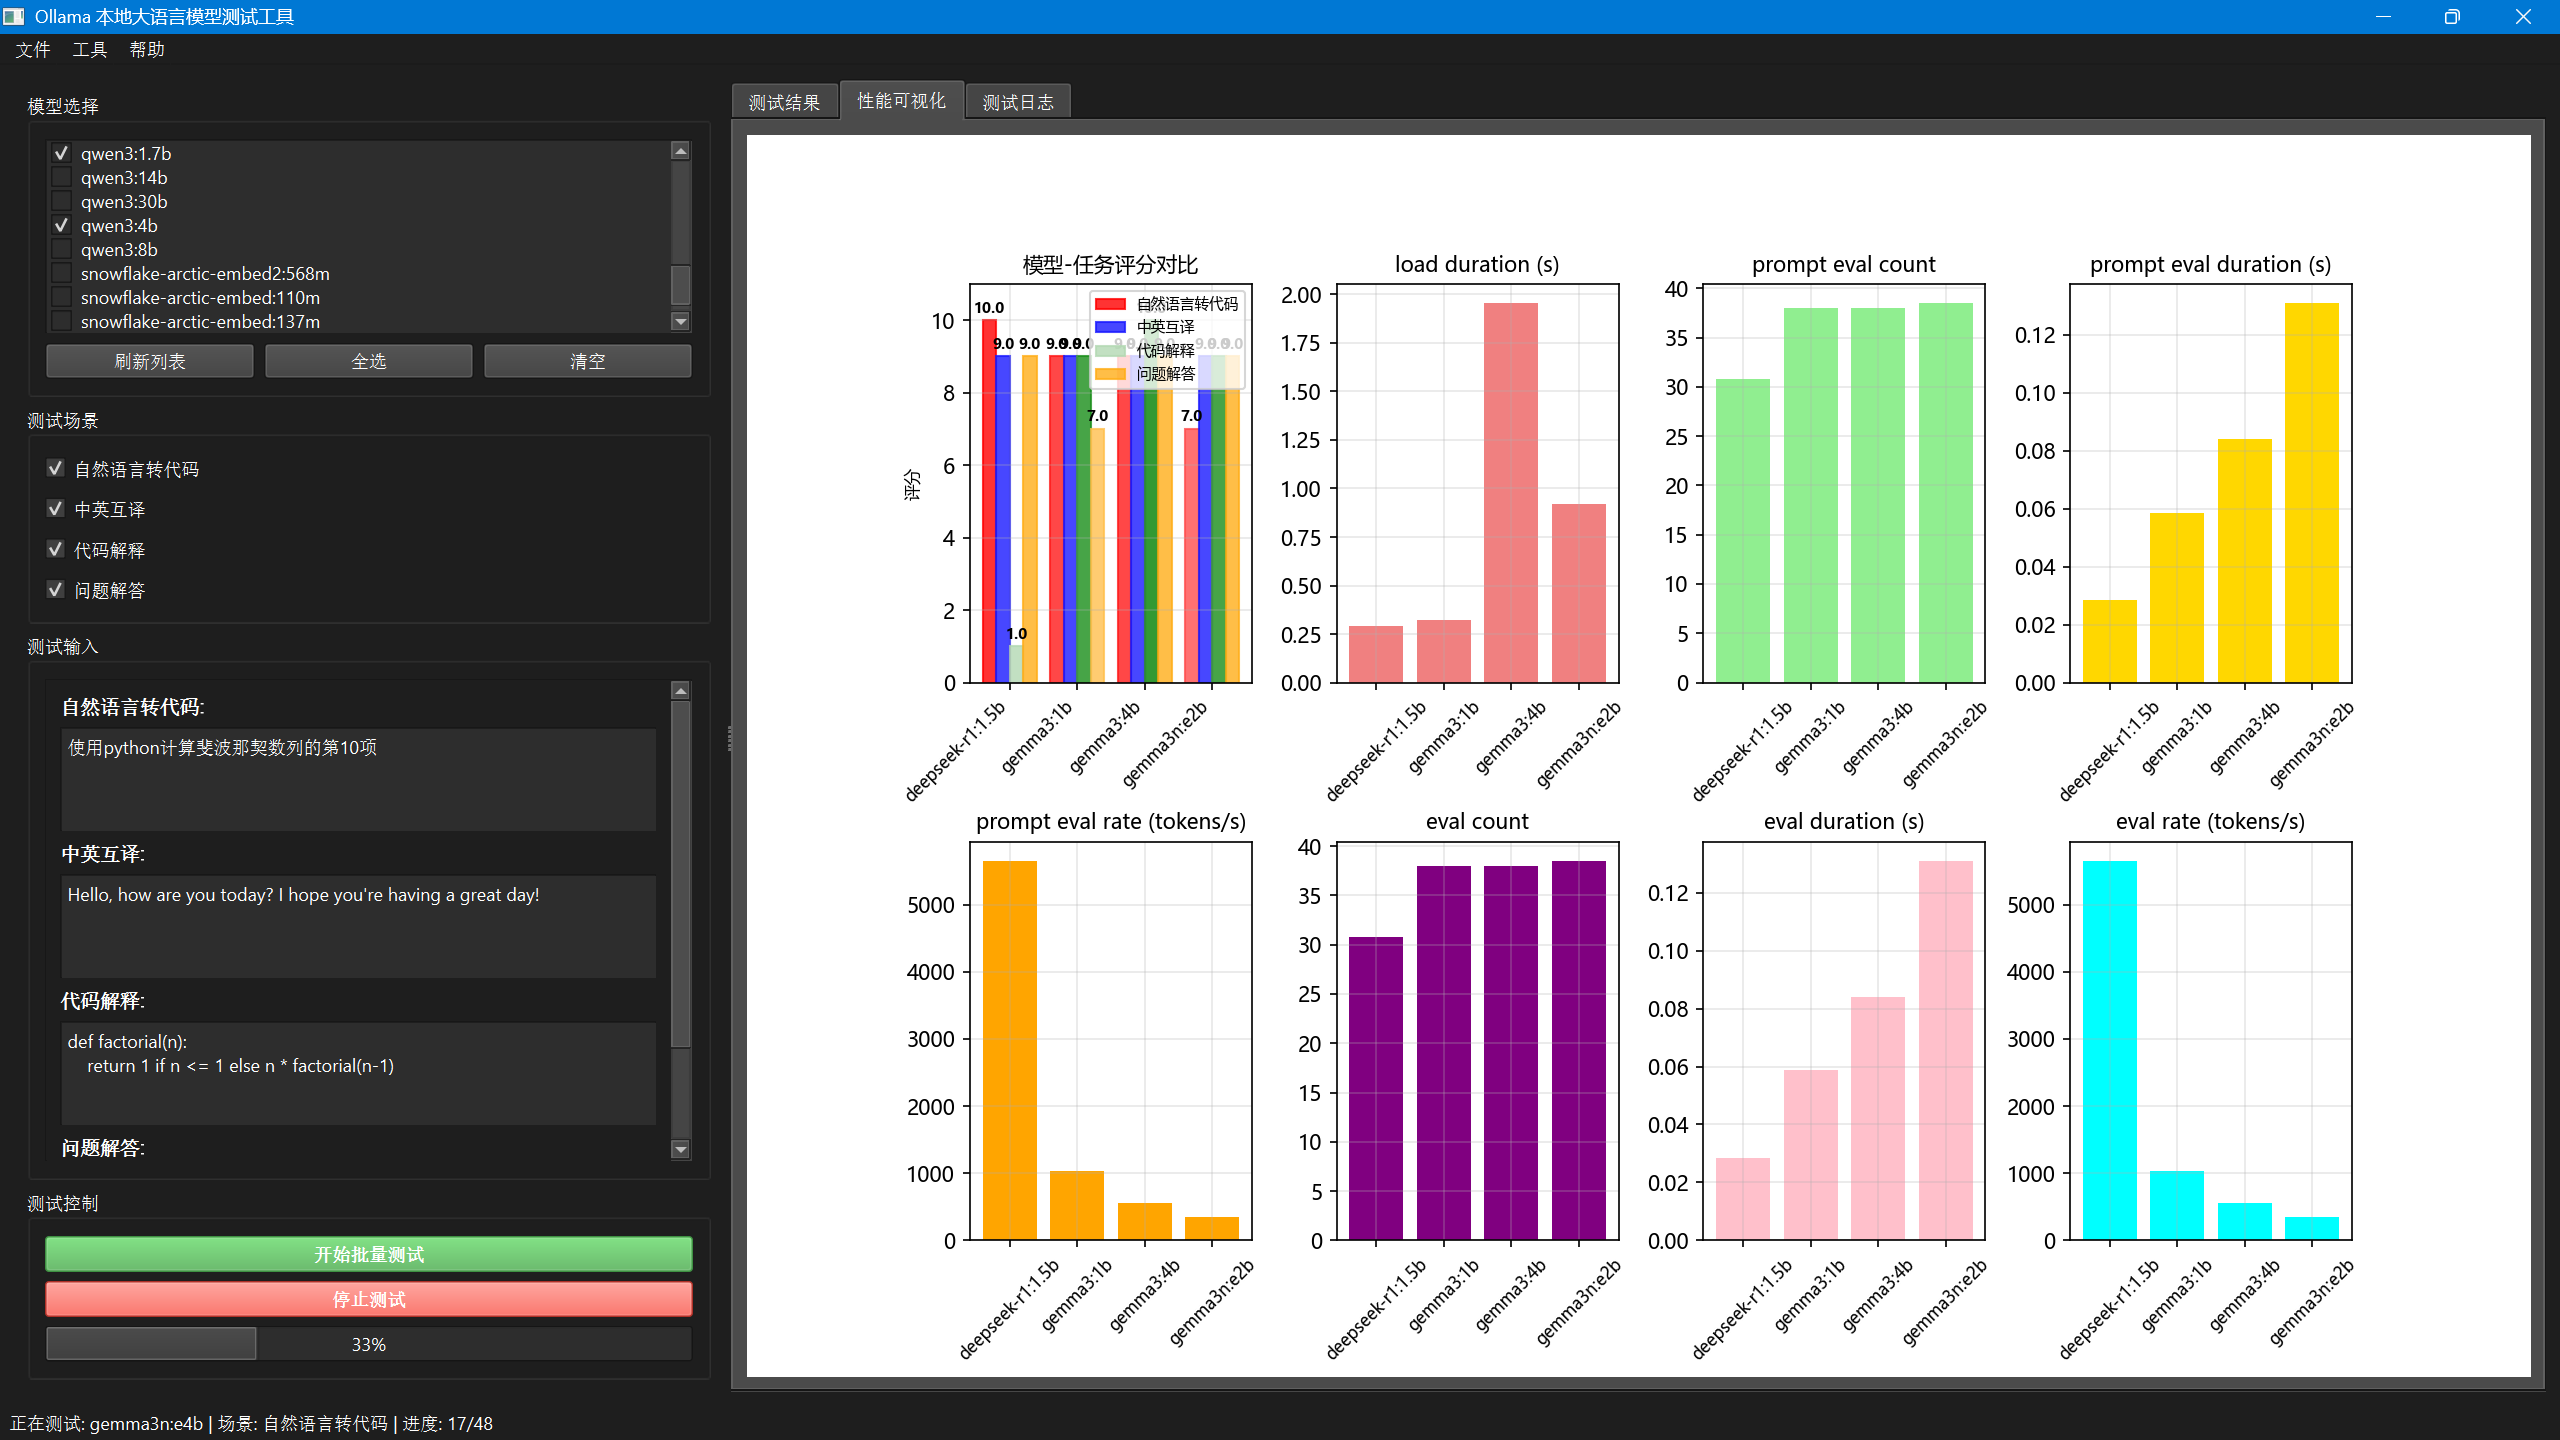
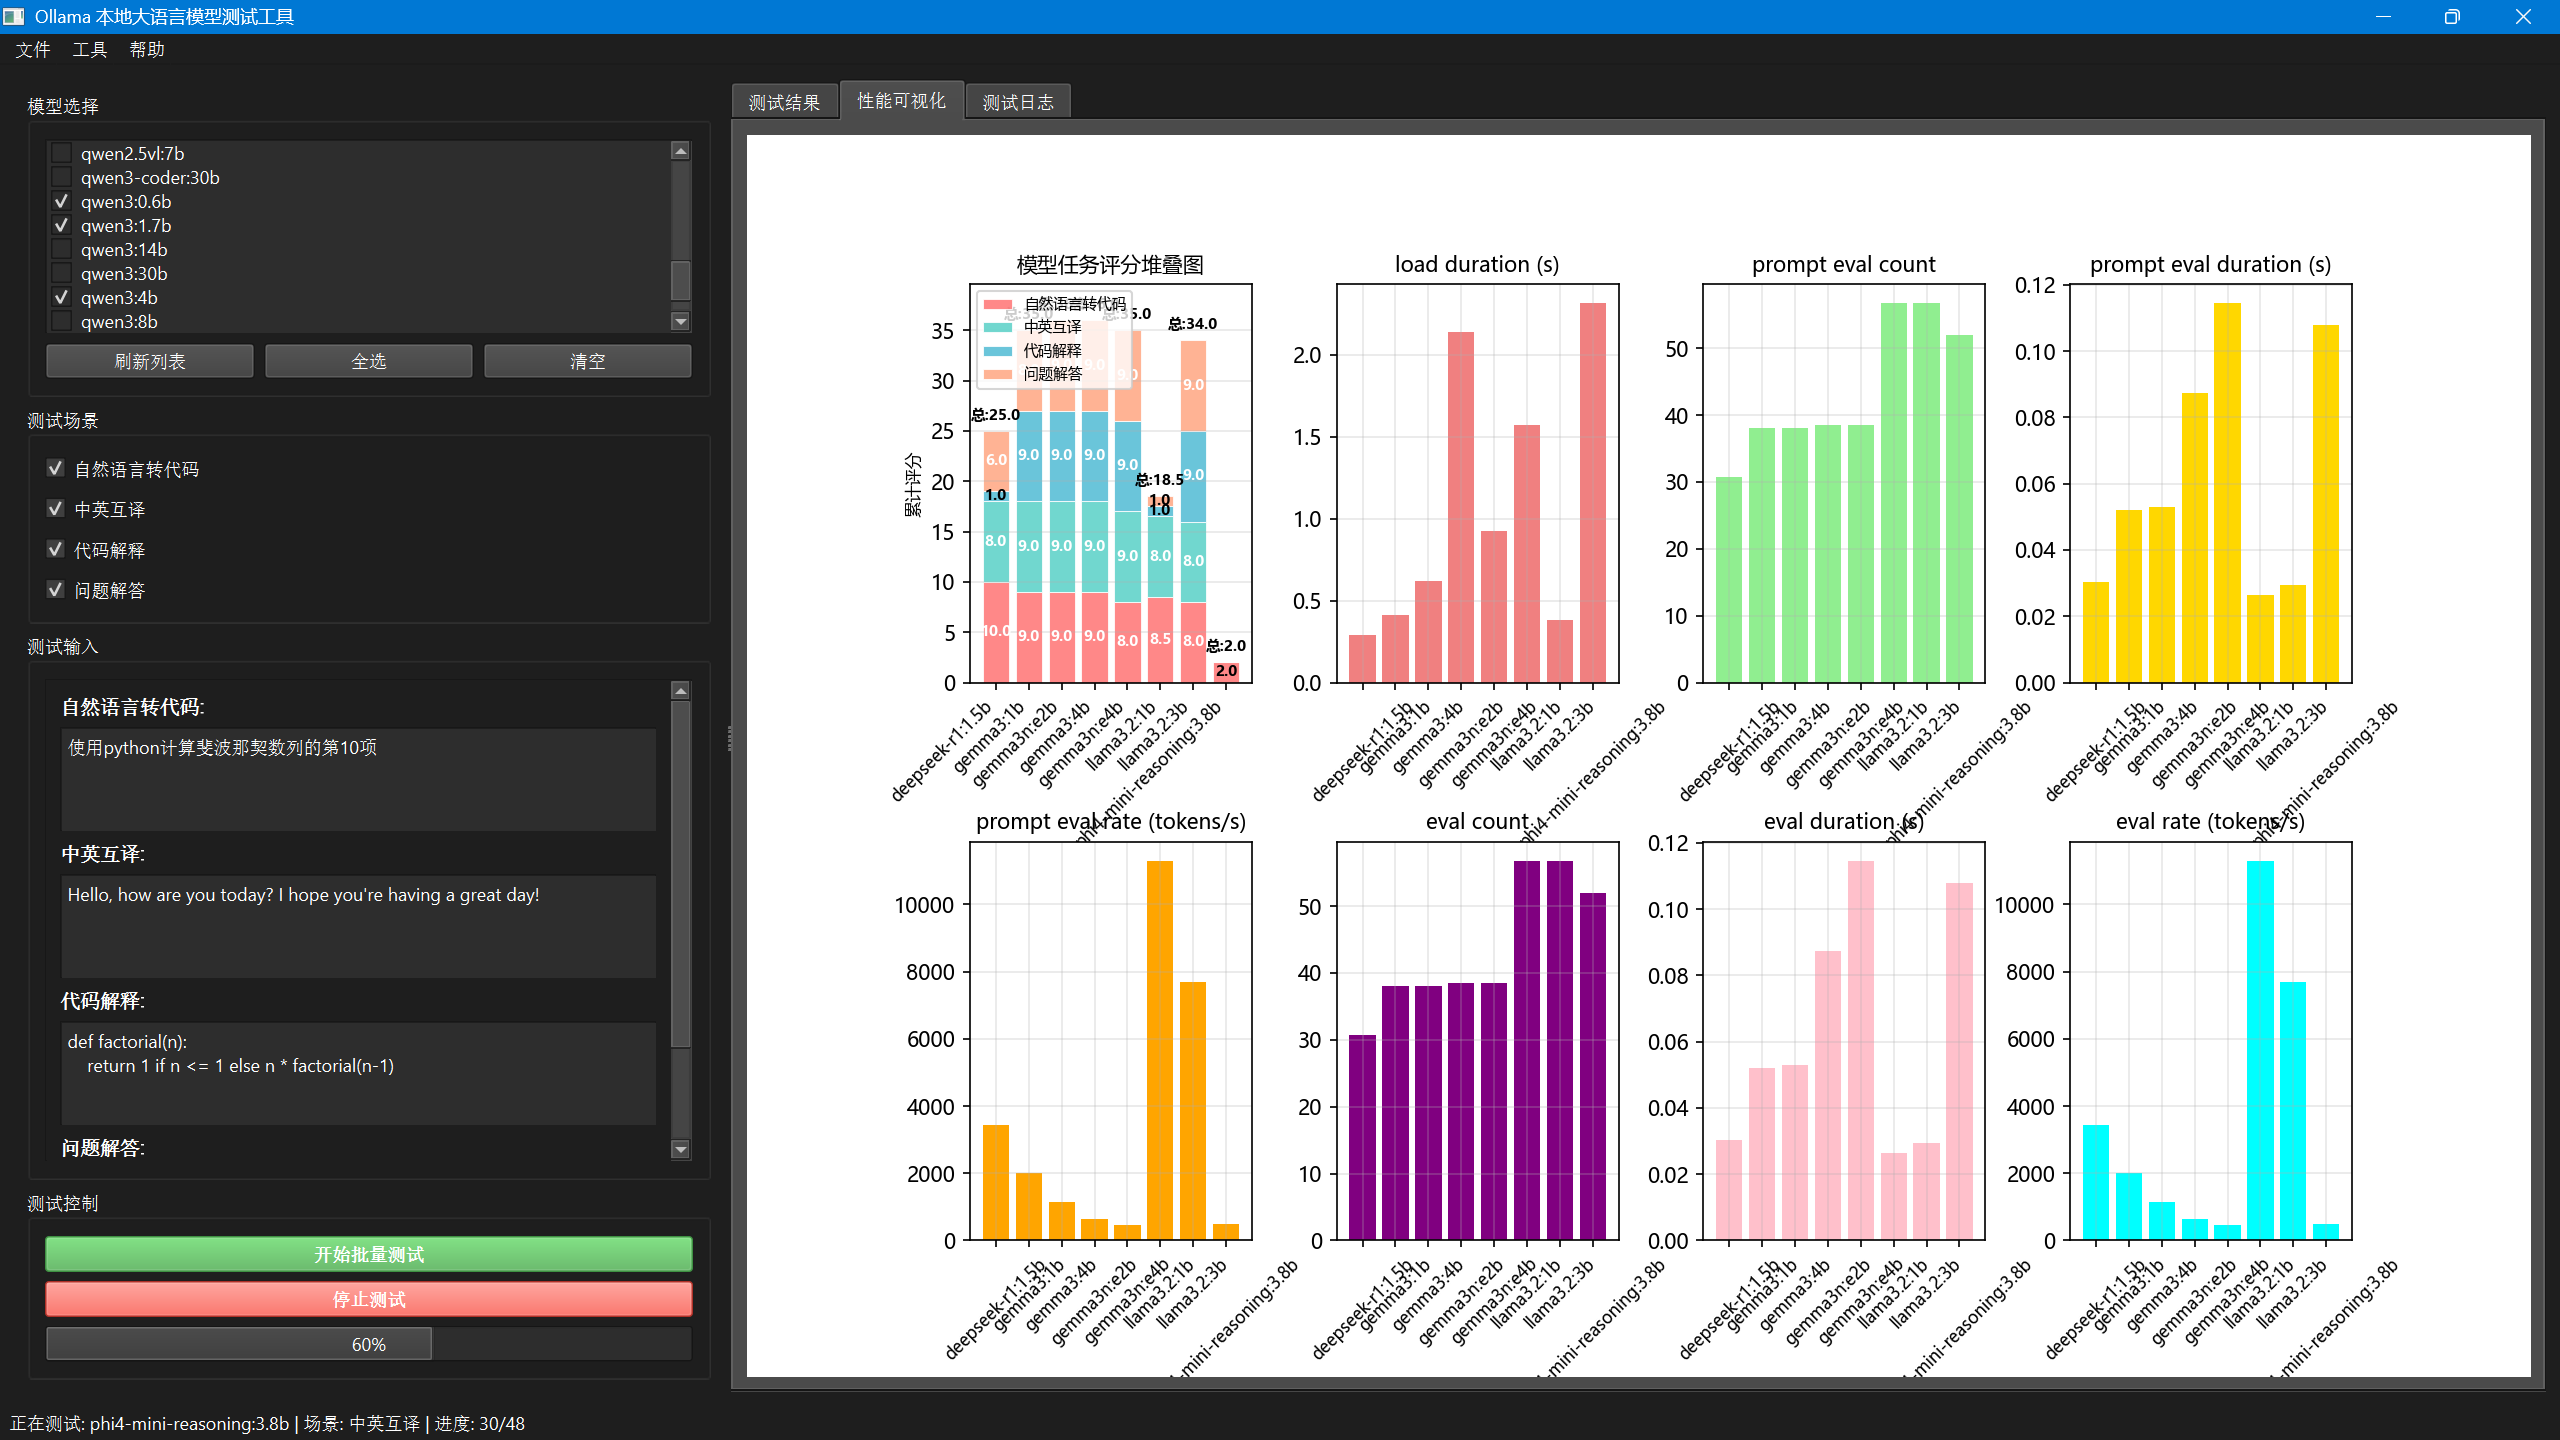
update

diff --git a/ollamamodeltester/src/ollamamodeltester/test.py b/ollamamodeltester/src/ollamamodeltester/test.py
@@ -447,15 +447,15 @@ class MatplotlibWidget(QWidget):
         fig.subplots_adjust(hspace=0.4, wspace=0.3)
         
         try:
-            # 1. 模型-任务评分可视化（用颜色深浅表示分数）
+            # 1. 模型-任务评分堆叠柱状图
             ax1 = fig.add_subplot(241)
             if 'self_score' in results_df.columns and 'model' in results_df.columns and 'scenario' in results_df.columns:
                 # 获取所有模型和任务
                 models = results_df['model'].unique()
                 scenarios = results_df['scenario'].unique()
                 
-                # 为每个任务分配一种基础颜色
-                base_colors = ['red', 'blue', 'green', 'orange']  # 四种基础颜色
+                # 为每个任务分配一种颜色
+                colors = ['#FF6B6B', '#4ECDC4', '#45B7D1', '#FFA07A']  # 四种不同的颜色
                 
                 # 计算每个模型在每个任务上的平均分
                 pivot_table = results_df.pivot_table(
@@ -465,66 +465,63 @@ class MatplotlibWidget(QWidget):
                     aggfunc='mean'
                 )
                 
-                # 设置柱状图的宽度和位置
-                bar_width = 0.8 / len(scenarios)  # 每个任务的柱子宽度
-                x_positions = range(len(models))  # 模型的x位置
+                # 准备堆叠数据
+                x_positions = range(len(models))
+                bottom_values = [0] * len(models)  # 用于堆叠的底部值
                 
-                # 为每个任务绘制柱状图
+                # 为每个任务创建堆叠层
                 for i, scenario in enumerate(scenarios):
-                    if i < len(base_colors):
-                        base_color = base_colors[i]
-                        
+                    if i < len(colors):
                         # 获取该任务在所有模型上的分数
                         scores = []
-                        colors = []
-                        
                         for model in models:
                             if model in pivot_table.columns and scenario in pivot_table.index:
                                 score = pivot_table.loc[scenario, model]
                                 if not pd.isna(score):
                                     scores.append(score)
-                                    # 根据分数计算颜色深浅（分数越高颜色越深）
-                                    alpha = max(0.3, min(1.0, score / 10.0))  # 透明度范围0.3-1.0
-                                    colors.append((base_color, alpha))
                                 else:
                                     scores.append(0)
-                                    colors.append((base_color, 0.1))
                             else:
                                 scores.append(0)
-                                colors.append((base_color, 0.1))
                         
-                        # 计算每个任务柱子的x位置
-                        x_offset = [x + (i - len(scenarios)/2 + 0.5) * bar_width for x in x_positions]
+                        # 绘制堆叠柱状图
+                        bars = ax1.bar(x_positions, scores, 
+                                       bottom=bottom_values,
+                                       color=colors[i],
+                                       label=scenario,
+                                       alpha=0.8,
+                                       edgecolor='white',
+                                       linewidth=0.5)
                         
-                        # 绘制柱状图
-                        bars = ax1.bar(x_offset, scores, bar_width, 
-                                       label=scenario, alpha=0.8)
+                        # 在每个堆叠段的中间显示分数
+                        for j, (x, score, bottom) in enumerate(zip(x_positions, scores, bottom_values)):
+                            if score > 0.5:  # 只在分数足够大时显示文字，避免重叠
+                                text_y = bottom + score / 2
+                                ax1.text(x, text_y, f'{score:.1f}', 
+                                       ha='center', va='center', 
+                                       fontsize=7, weight='bold',
+                                       color='white' if score > 5 else 'black')
                         
-                        # 为每个柱子设置颜色
-                        import matplotlib.colors as mcolors
-                        for bar, (color_name, alpha) in zip(bars, colors):
-                            # 将颜色名称转换为RGB，然后应用透明度
-                            rgb = mcolors.to_rgb(color_name)
-                            # 通过混合白色来实现深浅效果
-                            lightness = 1 - alpha  # alpha越大，lightness越小，颜色越深
-                            final_color = tuple(rgb[j] * (1 - lightness) + lightness for j in range(3))
-                            bar.set_color(final_color)
-                        
-                        # 在柱子上显示分数
-                        for x, score in zip(x_offset, scores):
-                            if score > 0:
-                                ax1.text(x, score + 0.1, f'{score:.1f}', 
-                                       ha='center', va='bottom', fontsize=7, weight='bold')
+                        # 更新底部值，为下一层堆叠做准备
+                        bottom_values = [bottom + score for bottom, score in zip(bottom_values, scores)]
                 
                 # 设置坐标轴
                 ax1.set_xticks(x_positions)
                 ax1.set_xticklabels(models, rotation=45, ha='right', fontsize=8)
-                ax1.set_ylabel('评分', fontsize=8)
-                ax1.set_ylim(0, 11)  # 设置y轴范围0-11
-                ax1.legend(fontsize=7, loc='upper right')
-                ax1.grid(True, alpha=0.3)
+                ax1.set_ylabel('累计评分', fontsize=8)
+                ax1.set_ylim(0, max(bottom_values) * 1.1 if bottom_values else 10)  # 动态设置y轴范围
                 
-            ax1.set_title('模型-任务评分对比', fontsize=10)
+                # 设置图例
+                ax1.legend(fontsize=7, loc='upper left', bbox_to_anchor=(0, 1))
+                ax1.grid(True, alpha=0.3, axis='y')
+                
+                # 在顶部显示总分
+                for x, total in zip(x_positions, bottom_values):
+                    if total > 0:
+                        ax1.text(x, total + max(bottom_values) * 0.02, f'总:{total:.1f}', 
+                               ha='center', va='bottom', fontsize=7, weight='bold')
+                
+            ax1.set_title('模型任务评分堆叠图', fontsize=10)
             
             # 2. load duration 对比
             ax2 = fig.add_subplot(242)
